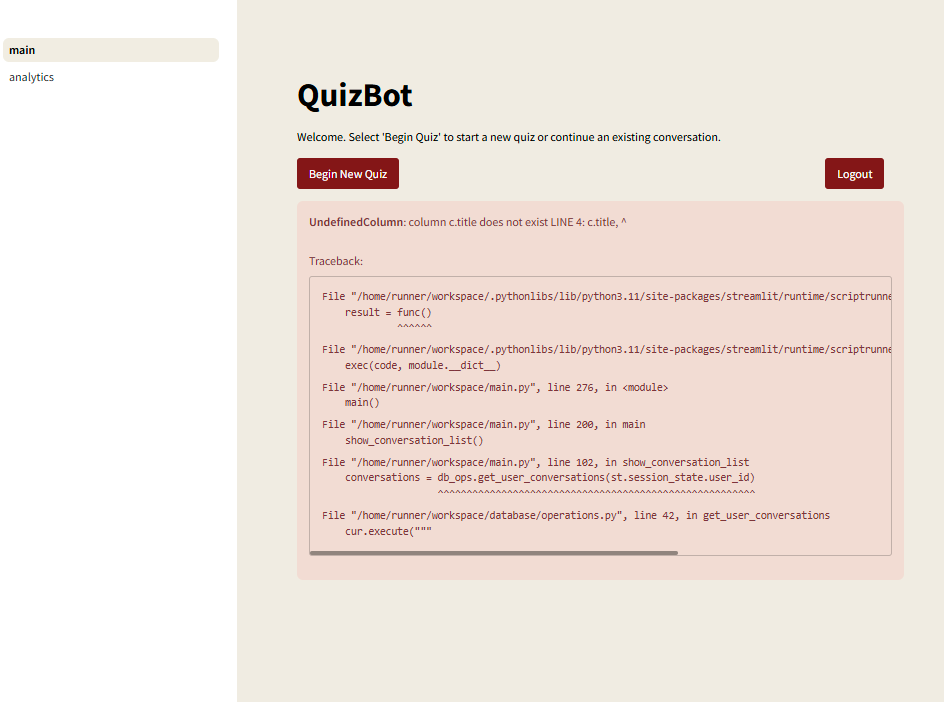
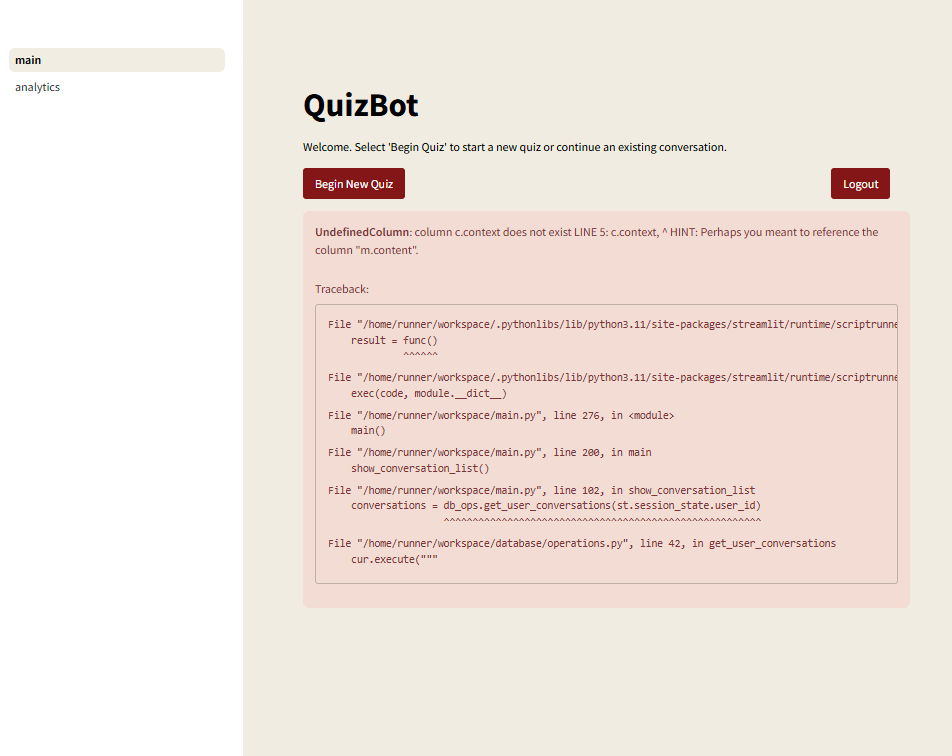
Agent step completed: Enable multiple conversation contexts per user

diff --git a/database/operations.py b/database/operations.py
@@ -7,12 +7,14 @@ class DatabaseOperations:
         conn = get_db_connection()
         cur = conn.cursor()
         cur.execute(
-            "INSERT INTO messages (conversation_id, role, content) VALUES (%s, %s, %s)",
+            "INSERT INTO messages (conversation_id, role, content) VALUES (%s, %s, %s) RETURNING id",
             (conversation_id, role, content)
         )
+        message_id = cur.fetchone()[0]
         conn.commit()
         cur.close()
         conn.close()
+        return message_id
 
     @staticmethod
     def create_conversation(user_id: int, title: str = None, context: str = None) -> int:
@@ -43,7 +45,7 @@ class DatabaseOperations:
             SELECT 
                 c.id,
                 COALESCE(c.title, 'Conversation ' || to_char(c.start_time, 'YYYY-MM-DD HH24:MI')) as title,
-                c.context,
+                COALESCE(c.context, '') as context,
                 c.start_time,
                 c.end_time,
                 c.completion_status,
@@ -52,7 +54,7 @@ class DatabaseOperations:
             FROM conversations c
             LEFT JOIN messages m ON c.id = m.conversation_id
             WHERE c.user_id = %s
-            GROUP BY c.id
+            GROUP BY c.id, c.title, c.context, c.start_time, c.end_time, c.completion_status
             ORDER BY 
                 CASE WHEN c.completion_status = 'ongoing' THEN 0 ELSE 1 END,
                 last_activity DESC NULLS LAST

diff --git a/database/models.py b/database/models.py
@@ -33,6 +33,12 @@ def init_db():
         ADD COLUMN IF NOT EXISTS title VARCHAR(200)
     """)
     
+    # Add context column to conversations table if it doesn't exist
+    cur.execute("""
+        ALTER TABLE conversations 
+        ADD COLUMN IF NOT EXISTS context TEXT
+    """)
+    
     # Create conversations table with additional analytics fields
     cur.execute("""
         CREATE TABLE IF NOT EXISTS conversations (
